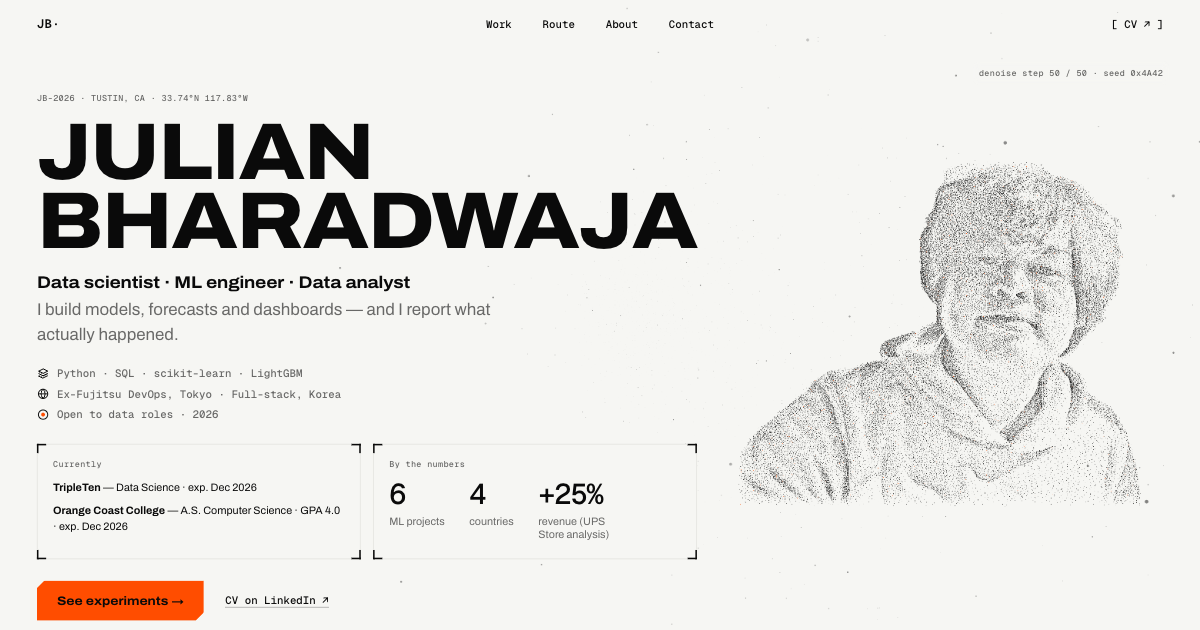
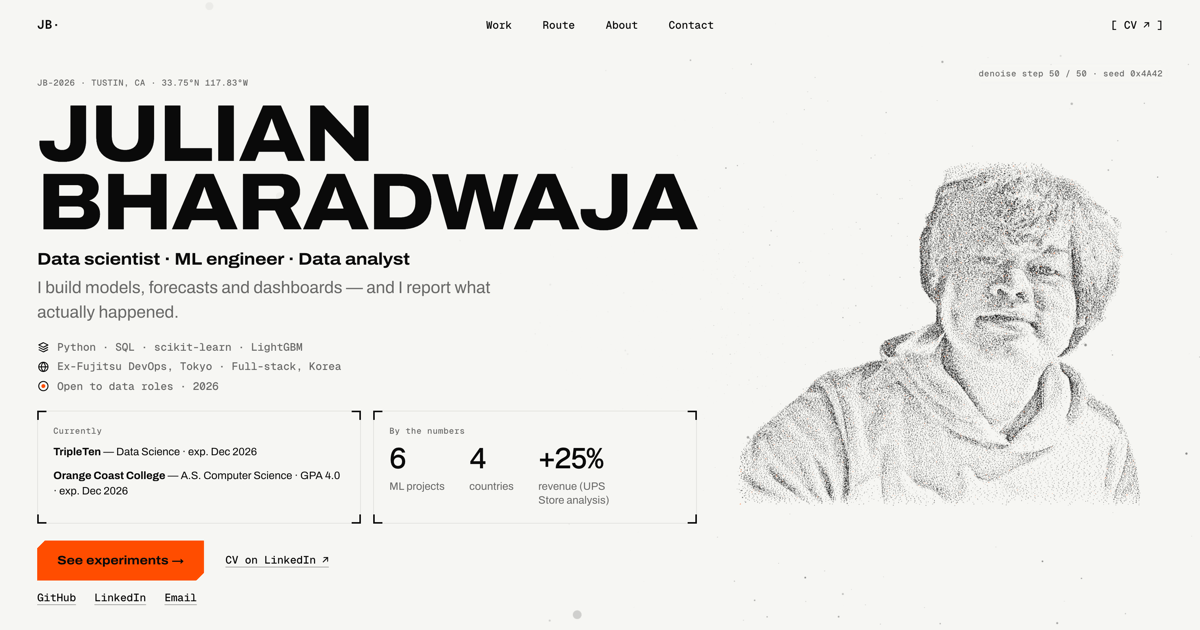
chore: final og.png from the finished hero; last comment references

diff --git a/js/main.js b/js/main.js
@@ -250,16 +250,17 @@ function registerFormations(engine) {
   const { N } = ctx.tier;
   engine.registerFormation(0, () => buildNoise(N, { rng: mulberry32(0x4a42) }));
   engine.ensure(0).catch(() => {});   // a failed build is logged by the engine; the page carries on without it
-  // Temporary: the galaxy also stands in at 2–5 and 7 so every morph can be seen; Tasks 10–15 register the real ones.
+  // The galaxy also stands in at 2–5 and 7 until their sections register their own formations, which replace it.
   for (const k of [2, 3, 4, 5, 6, 7]) engine.registerFormation(k, () => buildGalaxy(N, { rng: mulberry32(600 + k) }));
 }
 
-// Scroll restoration (Review Focus #2): the browser's own would restore into the no-JS layout and be wrong once
-// .js-scroll lengthens the stages. So the place is saved as { section id, fraction through it } on pagehide, into
-// this history entry's state (for back/forward) and the tab's sessionStorage (for a reload; which one wins is
-// scroll.js placeToRestore). It is put back at boot on the native layout, right after .js-scroll applies, and again
-// once fonts, locked word widths and the hero's layout have settled (just before the veil lifts); a #hash lands at
-// its section's start. The hero's entrance then sees where the page really is (hero.js entranceMode).
+// Scroll restoration, so a reload or a deep link lands on the right section: the browser's own would restore into the
+// no-JS layout and be wrong once .js-scroll lengthens the stages. So the place is saved as { section id, fraction
+// through it } on pagehide, into this history entry's state (for back/forward) and the tab's sessionStorage (for a
+// reload; which one wins is scroll.js placeToRestore). It is put back at boot on the native layout, right after
+// .js-scroll applies, and again once fonts, locked word widths and the hero's layout have settled (just before the
+// veil lifts); a #hash lands at its section's start. The hero's entrance then sees where the page really is (hero.js
+// entranceMode).
 const PLACE_KEY = 'latent-space:place';
 const PLACE_STATE = 'latentSpacePlace';
 try {

diff --git a/js/ui/scroll.js b/js/ui/scroll.js
@@ -65,13 +65,13 @@ export function offsetFor(place, height, range) {
 const isPlace = (p, ids) => Boolean(p) && typeof p.id === 'string' && ids.includes(p.id) && Number.isFinite(p.fraction);
 
 /**
- * The place to put the page at boot (Review Focus #2). Both saved places are written on pagehide: `entry` into
- * the history entry's state, `tab` into the tab's sessionStorage. A back/forward visit restores only its own
- * entry's place, so it never lands where a newer entry was. A reload restores the tab's place first — the
- * reloaded page's own pagehide wrote it last, while Chrome drops a replaceState made in a reload's pagehide and
- * keeps the entry's older state — then the entry's. Any other visit, or no usable saved place, lands where a jump to
- * the #hash's section (`hashId`) lands (`land`: its landing point, or its start), or nowhere (null). `ids` are the
- * section ids.
+ * The place to put the page at boot, so a reload or a deep link lands on the right section. Both saved places are
+ * written on pagehide: `entry` into the history entry's state, `tab` into the tab's sessionStorage. A back/forward
+ * visit restores only its own entry's place, so it never lands where a newer entry was. A reload restores the tab's
+ * place first — the reloaded page's own pagehide wrote it last, while Chrome drops a replaceState made in a reload's
+ * pagehide and keeps the entry's older state — then the entry's. Any other visit, or no usable saved place, lands
+ * where a jump to the #hash's section (`hashId`) lands (`land`: its landing point, or its start), or nowhere (null).
+ * `ids` are the section ids.
  */
 export function placeToRestore({ visit, entry, tab, hashId, ids }) {
   if (visit === 'reload' && isPlace(tab, ids)) return tab;
